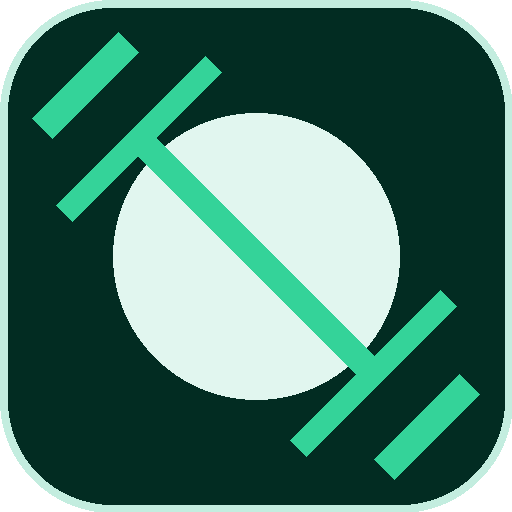
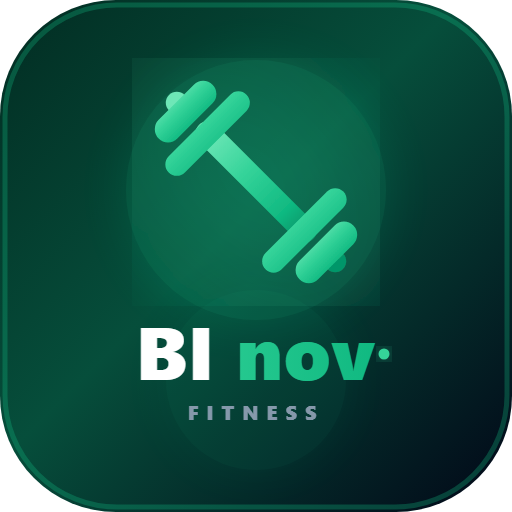
feat(branding): novo icone de alta definicao combinando halter atletico neon e tipografia BInov

diff --git a/interface/public/sw.js b/interface/public/sw.js
@@ -1,5 +1,5 @@
 // Service Worker Nativo do BInov Fitness
-const CACHE_NAME = 'binov-fitness-v1';
+const CACHE_NAME = 'binov-fitness-v2';
 const STATIC_ASSETS = [
   '/',
   '/index.html',
